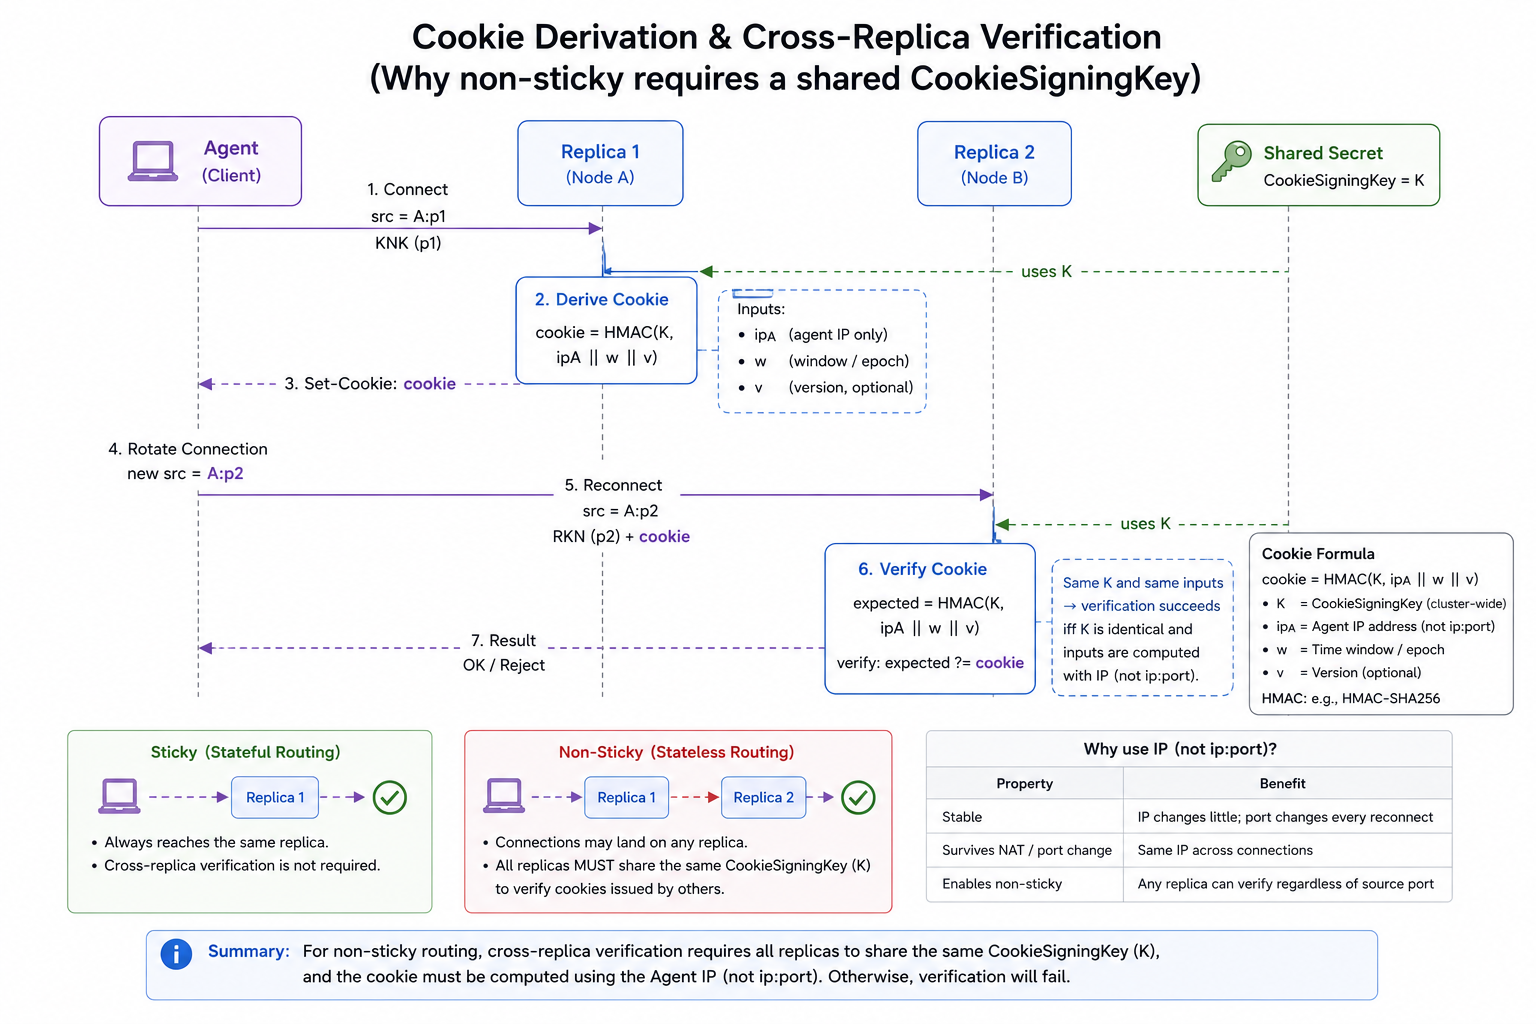
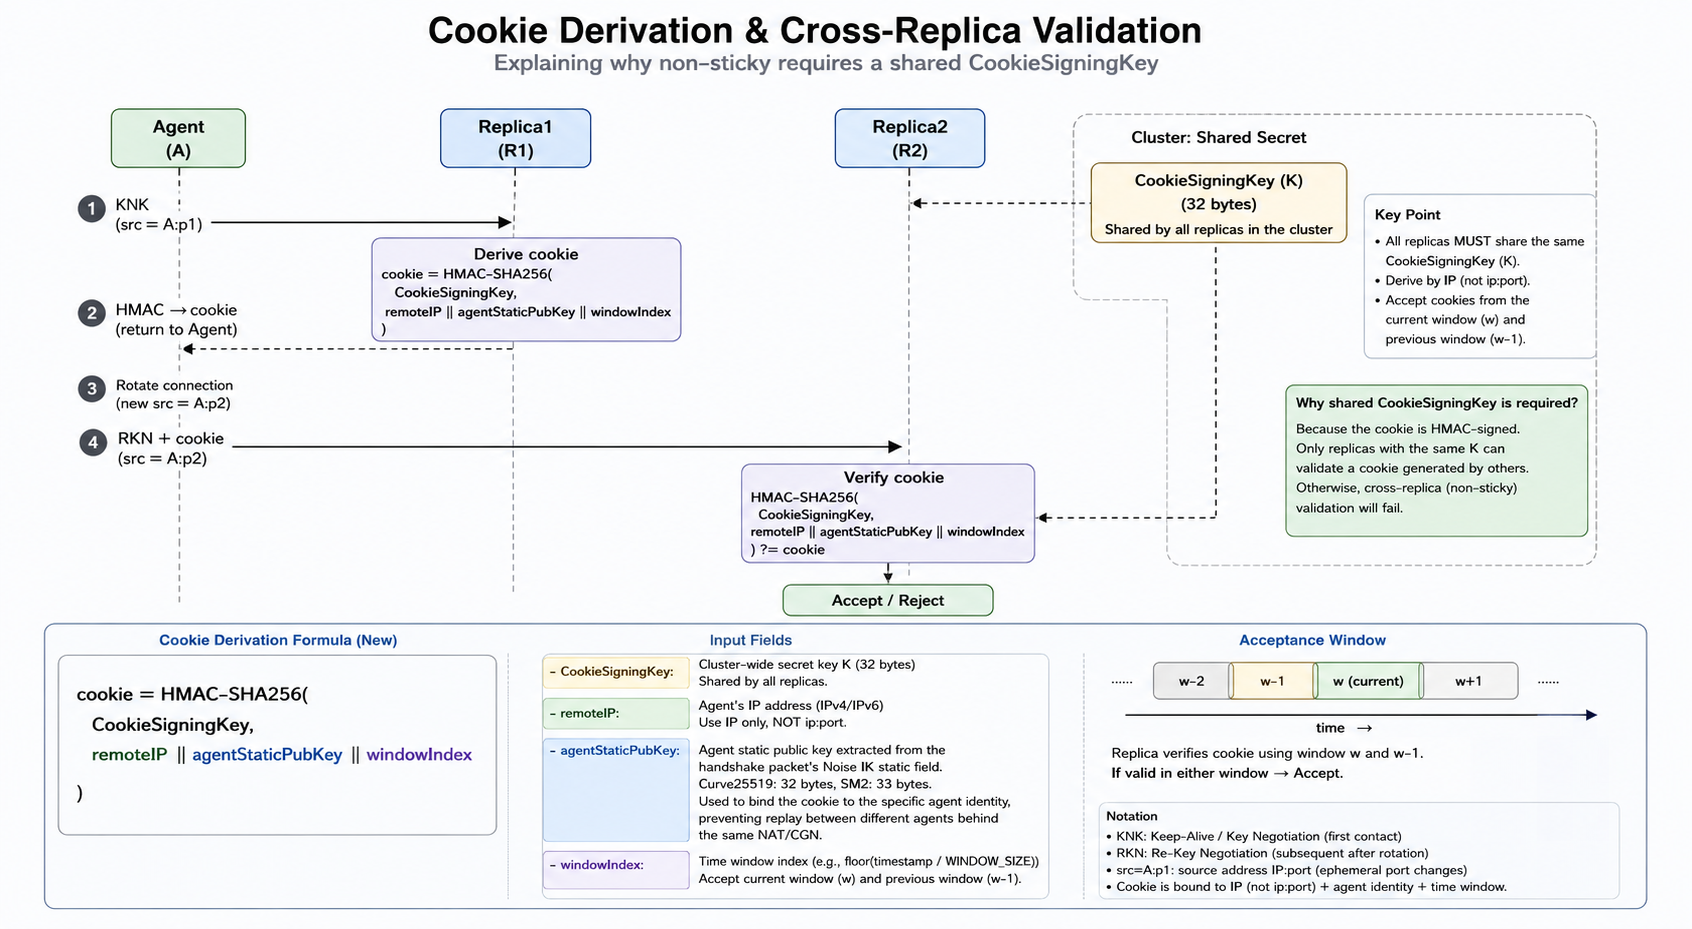
fix(server): bind stateless cookie to agent static pubkey
Cookie derivation previously hashed only (signingKey, remoteIP,
windowIndex). Within [window, 2*window] seconds, any party that could
send packets from the same source IP (e.g. a sibling tenant behind a
shared CGNAT / cloud-NAT egress) and pass validatePeer could mint a
cookie via its own legitimate KNK and have a different peer behind the
same NAT replay that cookie value in an unrelated RKN.

Mix the agent's IK static public key into the HMAC input so each
cookie is scoped to one peer identity. Cross-replica re-derivation is
unaffected because the static pubkey is global. As a side effect this
also constrains a compromised relay: it can still spoof SourceAddr,
but it cannot forge another agent's static pubkey, so minted cookies
remain bound to whichever peer the relay claims.

checkHMAC runs before validatePeer fills ppd.RemotePubKey, so the
sumCookie path now re-runs the IK static-decryption locally via a
new extractInitiatorStaticPubKey helper. The helper uses throwaway
hash/chainKey state so it cannot pollute the noise transcript that
validatePeer walks afterwards. One extra ECDH per RKN-under-overload
packet; zero impact on normal load (cookie path is overload-only).

On-wire protocol unchanged: cookie stays a 32-byte opaque token and
the agent is agnostic to the binding.

Changed region(s): [[0.0312, 0.3122, 1.0, 0.9989], [0.0312, 0.0, 0.9375, 0.4058], [0.4688, 0.2809, 0.5938, 0.4058]]

diff --git a/nhp/core/responder.go b/nhp/core/responder.go
@@ -66,18 +66,100 @@ func cookieRemoteKey(connData *ConnectionData) string {
 
 // deriveStatelessCookie produces a deterministic 32-byte cookie from the
 // cluster-wide signing key, the remote IP (NOT ip:port — see
-// cookieRemoteKey for why), and a time-window bucket. Any nhp-server
-// instance configured with the same key can independently re-derive the
-// cookie an agent received from a sibling instance, so the KNK → COK →
-// RKN handshake survives load-balancer or agent-side LB shuffling
-// between instances.
-func deriveStatelessCookie(signingKey []byte, remoteKey string, windowIndex int64) []byte {
+// cookieRemoteKey for why), the agent's static public key, and a
+// time-window bucket. Any nhp-server instance configured with the same
+// key can independently re-derive the cookie an agent received from a
+// sibling instance, so the KNK → COK → RKN handshake survives
+// load-balancer or agent-side LB shuffling between instances.
+//
+// peerPk binds each cookie to a specific agent identity. Without it,
+// two distinct agents sharing one NAT/CGN egress IP would derive
+// identical cookies within a window — any one of them could mint a
+// cookie via its own legitimate KNK and let a sibling behind the same
+// NAT replay that value in an unrelated RKN. Sibling-server
+// re-derivation is unaffected because the agent's static pubkey is the
+// same regardless of which server instance handles the packet. This
+// also blunts the relay-trust concern: a compromised relay can spoof
+// SourceAddr but cannot forge another agent's static pubkey, so a
+// minted cookie remains scoped to whichever peer the relay claims.
+func deriveStatelessCookie(signingKey []byte, remoteKey string, peerPk []byte, windowIndex int64) []byte {
 	mac := hmac.New(sha256.New, signingKey)
 	mac.Write([]byte(remoteKey))
+	mac.Write(peerPk)
 	var wb [8]byte
 	binary.BigEndian.PutUint64(wb[:], uint64(windowIndex))
 	mac.Write(wb[:])
 	return mac.Sum(nil) // 32 bytes (HashSize/CookieSize)
+}
+
+// extractInitiatorStaticPubKey re-runs the Noise IK static-decryption
+// step (device-ecdh-with-ephemeral → KDF → AEAD-Open of header.Static)
+// using purely local state, so the caller can learn the initiator's
+// static public key BEFORE validatePeer formally walks the Noise
+// transcript. It is used only by the overload cookie-verify path,
+// where checkHMAC needs to bind the cookie to the peer identity but
+// runs before validatePeer has populated ppd.RemotePubKey.
+//
+// IMPORTANT: this function MUST NOT touch ppd.chainHash, ppd.chainKey,
+// ppd.noise, or any other state that validatePeer will later mutate.
+// validatePeer reproduces this same ECDH/AEAD computation on its own
+// instances; doing it here too costs one extra ECDH per RKN-under-
+// overload packet, but keeps the noise-transcript machinery untouched
+// (and untouchable from this helper, which only takes a *Device, the
+// cipher suite, and the header).
+func extractInitiatorStaticPubKey(device *Device, ciphers *CipherSuite, header Header) ([]byte, error) {
+	deviceEcdh := device.GetEcdhByCipherScheme(header.CipherScheme())
+
+	ess := deviceEcdh.SharedSecret(header.EphermeralBytes())
+	if ess == nil {
+		return nil, ErrDeviceECDHEphermalFailed
+	}
+	defer SetZero(ess[:])
+
+	// Local chain hash: InitialHash || serverPubKey || ephemeral
+	// (mirrors validatePeer's ChainHash0 → ChainHash1 evolution, but
+	// in a throwaway hash that never leaks back to ppd).
+	chainHash, err := NewHash(ciphers.HashType)
+	if err != nil {
+		return nil, fmt.Errorf("extractInitiatorStaticPubKey: chain hash: %w", err)
+	}
+	chainHash.Write([]byte(InitialHashString))
+	chainHash.Write(deviceEcdh.PublicKey())
+	chainHash.Write(header.EphermeralBytes())
+
+	// Local chain key: ChainKey0 = MixKey(InitialHash, InitialChainKey)
+	// then ChainKey0 → ChainKey1 via ess.
+	var noise NoiseFactory
+	noise.HashType = ciphers.HashType
+	var chainKey [SymmetricKeySize]byte
+	defer SetZero(chainKey[:])
+	// ChainKey0
+	initHash, err := NewHash(ciphers.HashType)
+	if err != nil {
+		return nil, fmt.Errorf("extractInitiatorStaticPubKey: init hash: %w", err)
+	}
+	initHash.Write([]byte(InitialHashString))
+	noise.MixKey(&chainKey, initHash.Sum(nil), []byte(InitialChainKeyString))
+	// ChainKey0 → ChainKey1
+	noise.MixKey(&chainKey, chainKey[:], header.EphermeralBytes())
+
+	// Derive AEAD key for static-field decryption.
+	var key [SymmetricKeySize]byte
+	defer SetZero(key[:])
+	noise.KeyGen2(&chainKey, &key, chainKey[:], ess[:])
+
+	aead, err := AeadFromKey(ciphers.GcmType, &key)
+	if err != nil {
+		return nil, fmt.Errorf("extractInitiatorStaticPubKey: aead: %w", err)
+	}
+	peerPk := make([]byte, PublicKeySizeEx)
+	if _, err := aead.Open(peerPk[:0], header.NonceBytes(), header.StaticBytes(), chainHash.Sum(nil)); err != nil {
+		return nil, fmt.Errorf("extractInitiatorStaticPubKey: open: %w", err)
+	}
+	if header.CipherScheme() == common.CIPHER_SCHEME_CURVE {
+		peerPk = peerPk[:PublicKeySize]
+	}
+	return peerPk, nil
 }
 
 type ResponderScheme interface {
@@ -588,7 +670,11 @@ func (ppd *PacketParserData) sendCookie() {
 		return
 	}
 	window := time.Now().Unix() / win
-	cookie := deriveStatelessCookie(key, cookieRemoteKey(ppd.ConnData), window)
+	// sendCookie runs only from validatePeer after the ECDH+AEAD step
+	// has populated ppd.RemotePubKey, so binding the cookie to the
+	// agent's static pubkey here is safe — no extra crypto, just one
+	// more HMAC.Write of a value we already have.
+	cookie := deriveStatelessCookie(key, cookieRemoteKey(ppd.ConnData), ppd.RemotePubKey, window)
 	cokStr := base64.StdEncoding.EncodeToString(cookie)
 	cokMsg := &common.ServerCookieMsg{
 		TransactionId: ppd.SenderTrxId,
@@ -636,6 +722,20 @@ func (ppd *PacketParserData) checkHMAC(sumCookie bool) bool {
 			log.Critical("checkHMAC(sumCookie): device has no stateless cookie params")
 			return false
 		}
+		// Cookies are bound to the initiator's static public key so
+		// agents behind a shared NAT/CGN can't replay each other's
+		// cookies (see deriveStatelessCookie docstring). validatePeer
+		// is what normally fills ppd.RemotePubKey, but at this point
+		// in the parse flow it hasn't run yet — so re-do the
+		// IK static-decryption locally. One extra ECDH per
+		// RKN-under-overload packet; harmless under load (cookie
+		// path is the cheap rejector, ECDH cost is bounded by
+		// agents that can already mint a legitimate KNK).
+		peerPk, err := extractInitiatorStaticPubKey(ppd.device, ppd.Ciphers, ppd.header)
+		if err != nil {
+			log.Debug("checkHMAC(sumCookie): cannot recover peer static pubkey: %v", err)
+			return false
+		}
 		// The agent computes its HMAC as
 		//   Hash(InitialHashString || ServerPubKey || header[:len] || cookie)
 		// (initiator.go addHMAC, after the Init+PubKey seeding in
@@ -650,7 +750,7 @@ func (ppd *PacketParserData) checkHMAC(sumCookie bool) bool {
 		remote := cookieRemoteKey(ppd.ConnData)
 		currWindow := time.Now().Unix() / win
 		for _, w := range [2]int64{currWindow, currWindow - 1} {
-			cookie := deriveStatelessCookie(key, remote, w)
+			cookie := deriveStatelessCookie(key, remote, peerPk, w)
 			h, err := NewHash(ppd.Ciphers.HashType)
 			if err != nil {
 				return false

diff --git a/nhp/core/cookie_test.go b/nhp/core/cookie_test.go
@@ -1,6 +1,7 @@
 package core
 
 import (
+	"bytes"
 	"net"
 	"testing"
 )
@@ -81,5 +82,82 @@ func TestCookieRemoteKey_NilSafe(t *testing.T) {
 	}
 	if got := cookieRemoteKey(&ConnectionData{RemoteAddr: &net.UDPAddr{}}); got != "" {
 		t.Fatalf("nil IP: got %q, want empty", got)
+	}
+}
+
+// TestDeriveStatelessCookie_PeerPkBindsIdentity: this is the property
+// the "stateless cookie has no per-handshake binding" fix is about.
+// Two distinct agents arriving from the same source IP (same NAT/CGN
+// egress) inside the same time window must derive distinct cookies, so
+// one can't mint a cookie via its own legitimate KNK and have a
+// sibling behind the same NAT replay it in an unrelated RKN.
+func TestDeriveStatelessCookie_PeerPkBindsIdentity(t *testing.T) {
+	key := bytes.Repeat([]byte{0x42}, 32)
+	remote := "203.0.113.7"
+	pkA := bytes.Repeat([]byte{0xAA}, PublicKeySize)
+	pkB := bytes.Repeat([]byte{0xBB}, PublicKeySize)
+	const window int64 = 12345
+
+	cookieA := deriveStatelessCookie(key, remote, pkA, window)
+	cookieB := deriveStatelessCookie(key, remote, pkB, window)
+	if bytes.Equal(cookieA, cookieB) {
+		t.Fatalf("distinct peerPks behind the same NAT must derive distinct cookies; got identical %x", cookieA)
+	}
+}
+
+// TestDeriveStatelessCookie_SiblingServerReDerivation: any sibling
+// nhp-server with the same signing key, observing the same agent
+// (same source IP + same agent static pubkey) inside the same time
+// window, must produce the same cookie. This is the cluster routing
+// invariant — if it ever breaks, the KNK → COK → RKN handshake stops
+// surviving load-balancer shuffling between instances.
+func TestDeriveStatelessCookie_SiblingServerReDerivation(t *testing.T) {
+	key := bytes.Repeat([]byte{0x42}, 32)
+	remote := "203.0.113.7"
+	pk := bytes.Repeat([]byte{0xAA}, PublicKeySize)
+	const window int64 = 12345
+
+	// Two independent derivations (e.g. mint on instance #1, verify
+	// on instance #2) must agree byte-for-byte.
+	a := deriveStatelessCookie(key, remote, pk, window)
+	b := deriveStatelessCookie(key, remote, pk, window)
+	if !bytes.Equal(a, b) {
+		t.Fatalf("identical inputs must derive identical cookies; got %x vs %x", a, b)
+	}
+}
+
+// TestDeriveStatelessCookie_WindowSeparation: cookies expire across
+// window rollover. Verify changes to the window index alone produce a
+// distinct cookie, so an attacker can't replay a 2-window-old cookie
+// indefinitely.
+func TestDeriveStatelessCookie_WindowSeparation(t *testing.T) {
+	key := bytes.Repeat([]byte{0x42}, 32)
+	remote := "203.0.113.7"
+	pk := bytes.Repeat([]byte{0xAA}, PublicKeySize)
+
+	curr := deriveStatelessCookie(key, remote, pk, 12345)
+	next := deriveStatelessCookie(key, remote, pk, 12346)
+	if bytes.Equal(curr, next) {
+		t.Fatalf("consecutive windows must derive distinct cookies; got identical %x", curr)
+	}
+}
+
+// TestDeriveStatelessCookie_EmptyPeerPkSafe: pre-fix call sites (and
+// pathological inputs) might pass a nil/empty peerPk. The HMAC
+// primitive accepts zero-length writes, so the function must not
+// panic. The resulting cookie won't match any well-formed RKN's HMAC
+// — fail-closed is the right outcome.
+func TestDeriveStatelessCookie_EmptyPeerPkSafe(t *testing.T) {
+	key := bytes.Repeat([]byte{0x42}, 32)
+	remote := "203.0.113.7"
+
+	defer func() {
+		if r := recover(); r != nil {
+			t.Fatalf("empty peerPk must not panic, got %v", r)
+		}
+	}()
+	got := deriveStatelessCookie(key, remote, nil, 12345)
+	if len(got) != CookieSize {
+		t.Fatalf("expected %d-byte cookie even with nil peerPk, got %d", CookieSize, len(got))
 	}
 }

diff --git a/docs/multi-server.en.md b/docs/multi-server.en.md
@@ -32,14 +32,15 @@ Across all three endpoints, a cluster is:
 
 ### 0.3 Stateless cookies (prerequisite)
 
-For any nhp-server replica in a cluster to verify a cookie a sibling minted, two things must hold: **the cookie signing key is shared cluster-wide**, and **the cookie is derived from IP (not ip:port)**:
+For any nhp-server replica in a cluster to verify a cookie a sibling minted, three things must hold: **the cookie signing key is shared cluster-wide**, **the cookie is derived from IP (not ip:port)**, and **the cookie is bound to the agent's static public key**:
 
 ```text
-cookie = HMAC-SHA256(CookieSigningKey, remoteIP || windowIndex)
+cookie = HMAC-SHA256(CookieSigningKey, remoteIP || agentStaticPubKey || windowIndex)
 ```
 
 - Acceptance window: current + previous window (default 60s), so the boundary case still works.
 - IP-only, not ip:port: when an agent rotates instances, each UDP conn gets its own ephemeral source port — the port a sibling sees on the RKN is not the port the original instance saw on the KNK. Keying by IP lets the sibling re-derive the same cookie.
+- Bound to agent static pubkey: without this, two distinct agents sharing a NAT/CGN egress IP would derive identical cookies in the same window, letting one mint a cookie via its own KNK and have a sibling behind the same NAT replay it. Cross-replica re-derivation still works because the agent's static pubkey is global. The server recovers the pubkey from the IK static field before the cookie check, so the protocol on the wire is unchanged — agents are agnostic to this binding.
 - Config: `CookieSigningKeyBase64`, `CookieTimeWindowSeconds` — see [responder.go:23-58](../nhp/core/responder.go#L23-L58), [udpserver.go:235-270](../endpoints/server/udpserver.go#L235-L270).
 
 ![Cookie derivation & cross-replica verification](images/multi-nhp-server/cookie-derivation.png)

diff --git a/docs/zh-cn/multi-server.zh-cn.md b/docs/zh-cn/multi-server.zh-cn.md
@@ -32,14 +32,15 @@
 
 ### 0.3 无状态 cookie（前置依赖）
 
-集群内任意 nhp-server 副本要能验证同伴下发的 cookie，前提是 **共享 cookie 签名密钥** + **按 IP（去掉 port）派生**：
+集群内任意 nhp-server 副本要能验证同伴下发的 cookie，前提是三个条件同时成立：**共享 cookie 签名密钥** + **按 IP（去掉 port）派生** + **绑定 agent 静态公钥**：
 
 ```text
-cookie = HMAC-SHA256(CookieSigningKey, remoteIP || windowIndex)
+cookie = HMAC-SHA256(CookieSigningKey, remoteIP || agentStaticPubKey || windowIndex)
 ```
 
 - 验证窗口：当前 + 上一窗口（默认 60s），跨窗口边界仍可用。
 - 只用 IP 不用 port：Agent 跨实例切换时每个 UDP conn 各自一个临时源端口，port 在 KNK 与 RKN 之间会变；用 IP 派生才能让另一副本算出同一 cookie。
+- 绑定 agent 静态公钥：若不绑定，共享同一 NAT/CGN 出口 IP 的两个 agent 在同一窗口内会派生相同 cookie——其中一个通过自己的合法 KNK 拿到 cookie 后，同 NAT 后的另一个 agent 即可在无关 RKN 中重放。跨副本派生仍然成立，因为 agent 静态公钥全局唯一。Server 在 cookie 校验前会从 IK static 字段解出 agent 公钥，**线协议保持不变**，agent 完全感知不到这层绑定。
 - 配置：`CookieSigningKeyBase64`、`CookieTimeWindowSeconds`，详见 [responder.go:23-58](../../nhp/core/responder.go#L23-L58)、[udpserver.go:235-270](../../endpoints/server/udpserver.go#L235-L270)。
 
 ![Cookie 派生与跨副本校验](../images/multi-nhp-server/cookie-derivation.png)
